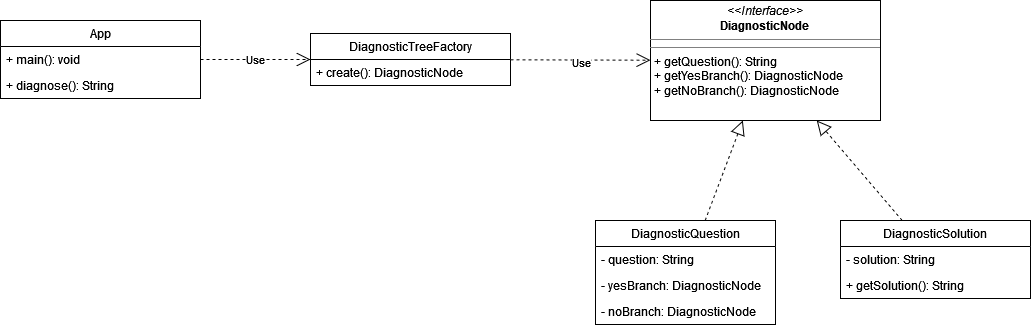
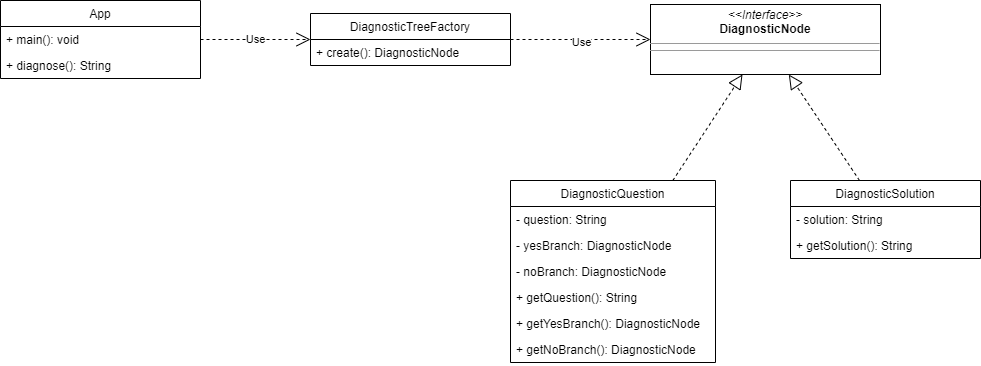
Move question props to DiagnosticQuestion class

diff --git a/troubleshoot-app/src/test/java/com/wassim/bougarfa/AppTest.java b/troubleshoot-app/src/test/java/com/wassim/bougarfa/AppTest.java
@@ -2,6 +2,7 @@ package com.wassim.bougarfa;
 
 import org.junit.jupiter.api.Test;
 import static org.junit.jupiter.api.Assertions.assertEquals;
+import static org.junit.jupiter.api.Assertions.assertNull;
 
 public class AppTest {
 
@@ -15,7 +16,7 @@ public class AppTest {
     Test case 4     | no, no, yes                               |   Check spark plug connections.
     Test case 5     | no, no, no, yes, yes                      |   Get it in for service.
     Test case 6     | no, no, no, yes, no                       |   Check to ensure the choke is opening and closing.
-    Test case 7     | no, no, no, no                            |   Cannot determine correct diagnostic procedure.
+    Test case 7     | no, no, no, no                            |   null.
     */
 
     @Test
@@ -24,38 +25,38 @@ public class AppTest {
 
         // Test case 1
         App.InputSource mockInputSource1 = createMockInputSource("yes", "yes");
-        String result1 = App.diagnose(mockInputSource1, tree);
-        assertEquals("Clean terminals and try starting again.", result1);
+        DiagnosticSolution result1 = App.diagnose(mockInputSource1, tree);
+        assertEquals("Clean terminals and try starting again.", result1.getSolution());
 
         // Test case 2
         App.InputSource mockInputSource2 = createMockInputSource("yes", "no");
-        String result2 = App.diagnose(mockInputSource2, tree);
-        assertEquals("Replace cables and try again.", result2);
+        DiagnosticSolution result2 = App.diagnose(mockInputSource2, tree);
+        assertEquals("Replace cables and try again.", result2.getSolution());
 
         // Test case 3
         App.InputSource mockInputSource3 = createMockInputSource("no", "yes");
-        String result3 = App.diagnose(mockInputSource3, tree);
-        assertEquals("Replace the battery.", result3);
+        DiagnosticSolution result3 = App.diagnose(mockInputSource3, tree);
+        assertEquals("Replace the battery.", result3.getSolution());
 
         // Test case 4
         App.InputSource mockInputSource4 = createMockInputSource("no", "no", "yes");
-        String result4 = App.diagnose(mockInputSource4, tree);
-        assertEquals("Check spark plug connections", result4);
+        DiagnosticSolution result4 = App.diagnose(mockInputSource4, tree);
+        assertEquals("Check spark plug connections", result4.getSolution());
 
         // Test case 5
         App.InputSource mockInputSource5 = createMockInputSource("no", "no", "no", "yes", "yes");
-        String result5 = App.diagnose(mockInputSource5, tree);
-        assertEquals("Get it in for service", result5);
+        DiagnosticSolution result5 = App.diagnose(mockInputSource5, tree);
+        assertEquals("Get it in for service", result5.getSolution());
 
         // Test case 6
         App.InputSource mockInputSource6 = createMockInputSource("no", "no", "no", "yes", "no");
-        String result6 = App.diagnose(mockInputSource6, tree);
-        assertEquals("Check to ensure the choke is opening and closing", result6);
+        DiagnosticSolution result6 = App.diagnose(mockInputSource6, tree);
+        assertEquals("Check to ensure the choke is opening and closing", result6.getSolution());
 
         // Test case 7
         App.InputSource mockInputSource7 = createMockInputSource("no", "no", "no", "no");
-        String result7 = App.diagnose(mockInputSource7, tree);
-        assertEquals("Cannot determine correct diagnostic procedure.", result7);
+        DiagnosticSolution result7 = App.diagnose(mockInputSource7, tree);
+        assertNull(result7);
     }
 
     // Helper function to create a mock InputSource

diff --git a/troubleshoot-app/src/main/java/com/wassim/bougarfa/App.java b/troubleshoot-app/src/main/java/com/wassim/bougarfa/App.java
@@ -10,8 +10,12 @@ public class App {
     public static void main(String[] args) {
         DiagnosticNode tree = DiagnosticTreeFactory.create();
         Scanner scanner = new Scanner(System.in);
-        String solution = diagnose(scanner::nextLine, tree);
-        System.out.println(solution);
+        DiagnosticSolution solution = diagnose(scanner::nextLine, tree);
+        if(solution == null) {
+           System.out.println("Cannot determine correct diagnostic procedure.");
+        } else {
+            System.out.println(solution);
+        }
         scanner.close();
     }
 
@@ -23,21 +27,22 @@ public class App {
      * @param node        The current node in the diagnostic tree.
      * @return The diagnostic solution based on the user's input.
      */
-    public static String diagnose(InputSource inputSource, DiagnosticNode node) {
+    public static DiagnosticSolution diagnose(InputSource inputSource, DiagnosticNode node) {
         if (node == null) {
-            return "Cannot determine correct diagnostic procedure.";
+            return null;
         }
 
         if (node instanceof DiagnosticSolution) {
-            return ((DiagnosticSolution) node).getSolution();
+            return (DiagnosticSolution) node;
         }
 
-        System.out.println(node.getQuestion() + "?");
+        // Question node
+        System.out.println(node);
         String answer = inputSource.nextLine();
         if (answer.equals("yes") || answer.equals("y")) {
-            return diagnose(inputSource, node.getYesBranch());
+            return diagnose(inputSource, ((DiagnosticQuestion) node).getYesBranch());
         } else {
-            return diagnose(inputSource, node.getNoBranch());
+            return diagnose(inputSource, ((DiagnosticQuestion) node).getNoBranch());
         }
     }
 

diff --git a/troubleshoot-app/src/main/java/com/wassim/bougarfa/DiagnosticQuestion.java b/troubleshoot-app/src/main/java/com/wassim/bougarfa/DiagnosticQuestion.java
@@ -1,6 +1,6 @@
 package com.wassim.bougarfa;
 
-public class DiagnosticQuestion extends DiagnosticNode {
+public class DiagnosticQuestion implements DiagnosticNode {
     private String question;
     private DiagnosticNode yesBranch;
     private DiagnosticNode noBranch;
@@ -19,18 +19,20 @@ public class DiagnosticQuestion extends DiagnosticNode {
         return this;
     }
 
-    @Override
     public String getQuestion() {
         return question;
     }
 
-    @Override
     public DiagnosticNode getYesBranch() {
         return yesBranch;
     }
 
-    @Override
     public DiagnosticNode getNoBranch() {
         return noBranch;
+    }
+
+    @Override
+    public String toString() {
+       return this.question + '?';
     }
 }

diff --git a/troubleshoot-app/src/main/java/com/wassim/bougarfa/DiagnosticSolution.java b/troubleshoot-app/src/main/java/com/wassim/bougarfa/DiagnosticSolution.java
@@ -1,6 +1,6 @@
 package com.wassim.bougarfa;
 
-public class DiagnosticSolution extends DiagnosticNode {
+public class DiagnosticSolution implements DiagnosticNode {
     private String solution;
 
     public DiagnosticSolution(String solution) {
@@ -12,17 +12,7 @@ public class DiagnosticSolution extends DiagnosticNode {
     }
 
     @Override
-    public String getQuestion() {
-        return null;
-    }
-
-    @Override
-    public DiagnosticNode getYesBranch() {
-        return null;
-    }
-
-    @Override
-    public DiagnosticNode getNoBranch() {
-        return null;
+    public String toString() {
+        return solution;
     }
 }

diff --git a/troubleshoot-app/src/main/java/com/wassim/bougarfa/DiagnosticNode.java b/troubleshoot-app/src/main/java/com/wassim/bougarfa/DiagnosticNode.java
@@ -1,10 +1,6 @@
 package com.wassim.bougarfa;
 
-public abstract class DiagnosticNode {
-    public abstract String getQuestion();
+public interface DiagnosticNode {
 
-    public abstract DiagnosticNode getYesBranch();
-
-    public abstract DiagnosticNode getNoBranch();
 }
 
